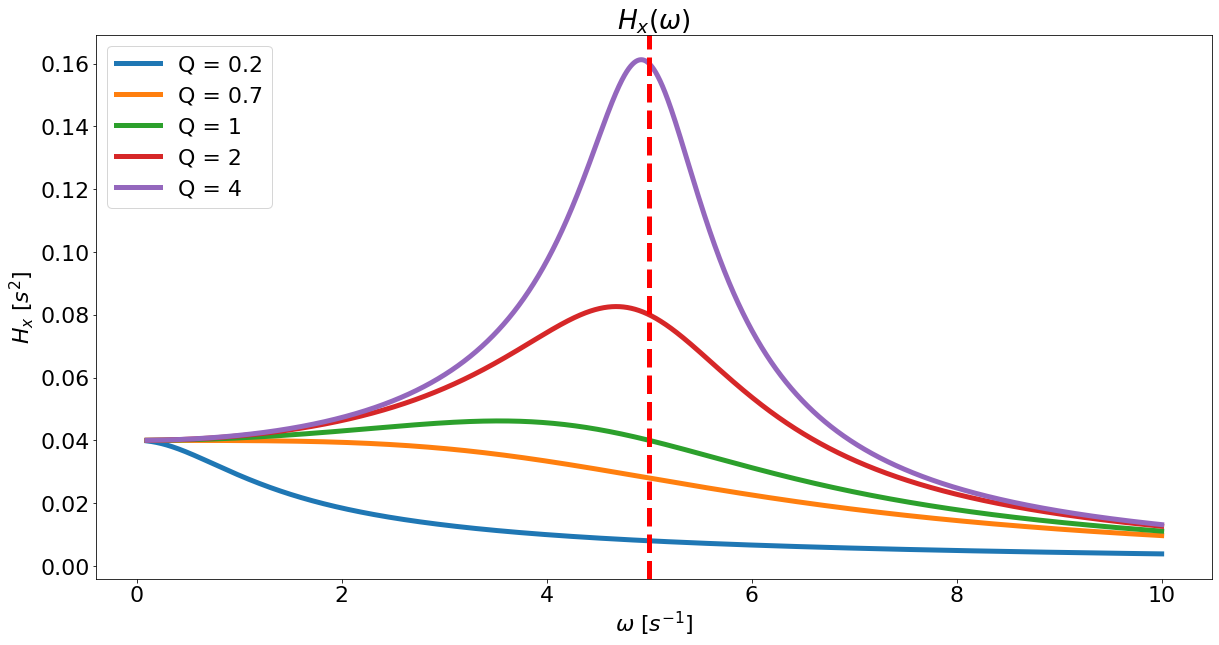
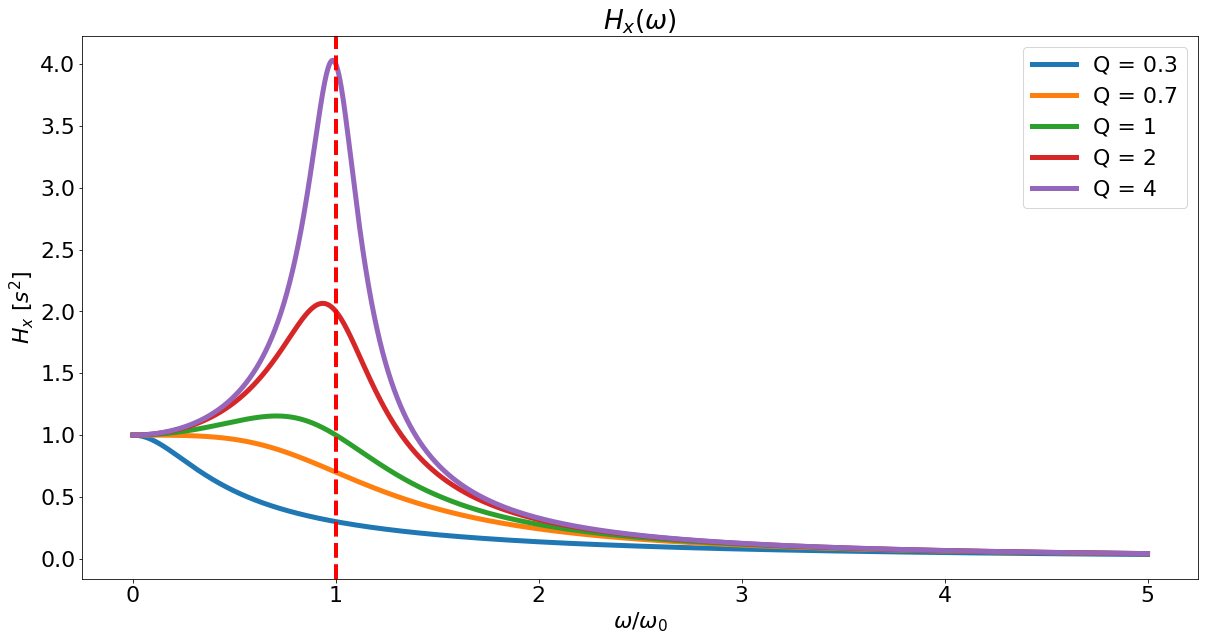
Ajout figure + code gamma
Mise à jour fig + code résonance

diff --git a/LP/24-phenomenes_resonances/resonance.py b/LP/24-phenomenes_resonances/resonance.py
@@ -10,6 +10,8 @@ import matplotlib.pyplot as plt
 from scipy.integrate import odeint
 import matplotlib 
 
+plt.rcParams.update({'font.size': 22})
+
 # norme fonction de transfert position
 def Hv (omega, omega0, Q):
     den = 1 + Q**2 * (omega / omega0 - omega0/omega)**2
@@ -22,18 +24,18 @@ def Hx (omega, omega0, Q):
     return Q / (omega0**2 * np.sqrt (den))
 
 ## paramètre resonance
-Q = [0.2, 0.7, 1, 2, 4]
-omega = np.linspace (0.1, 10, 10000)
-omega0 = 5
+Q = [0.3, 0.7, 1, 2, 4]
+omega0 = 1
+omega = np.linspace (0, 5, 100000)
 
 # tracé de H_x
 plt.figure (figsize = (20, 10))
 for q in Q:
     plt.plot (omega, Hx (omega, omega0, q), linewidth=5)
-plt.axvline(x=omega0, color='red', linestyle='--', linewidth=5)
-plt.xlabel ("$\omega$ [$s^{-1}$]")
+plt.axvline (x=omega0, color='red', linestyle='--', linewidth=4)
+plt.legend (['Q = 0.3', 'Q = 0.7', 'Q = 1', 'Q = 2', 'Q = 4'], loc=1)
+plt.xlabel ("$\omega / \omega_0$")
 plt.ylabel ("$H_x$ [$s^2$]")
-plt.legend(['Q = 0.2', 'Q = 0.7', 'Q = 1', 'Q = 2', 'Q = 4'], loc=2)
 plt.title ("$H_x (\omega)$")
 plt.show ()
 
@@ -41,9 +43,9 @@ plt.show ()
 plt.figure (figsize = (20, 10))
 for q in Q:
     plt.plot (omega, Hv (omega, omega0, q), linewidth=5)
-plt.axvline(x=omega0, color='red', linestyle='--', linewidth=5)
-plt.xlabel ("$\omega$ [$s^{-1}$]")
+plt.axvline (x=omega0, color='red', linestyle='--', linewidth=4)
+plt.legend (['Q = 0.3', 'Q = 0.7', 'Q = 1', 'Q = 2', 'Q = 4'], loc=1)
+plt.xlabel ("$\omega / \omega_0$")
 plt.ylabel ("$H_v$ [$s$]")
-plt.legend(['Q = 0.2', 'Q = 0.7', 'Q = 1', 'Q = 2', 'Q = 4'], loc=2)
 plt.title ("$H_v (\omega)$")
 plt.show ()

diff --git a/LP/26-cinematique_relativiste/gamma.py b/LP/26-cinematique_relativiste/gamma.py
@@ -1,0 +1,31 @@
+# -*- coding: utf-8 -*-
+"""
+  Resonance : trace la norme des fonctions de transfert
+  en position et vitesse pour 5 valeurs de Q
+"""
+
+import matplotlib.animation as animation
+import numpy as np
+import matplotlib.pyplot as plt
+from scipy.integrate import odeint
+import matplotlib 
+
+plt.rcParams.update({'font.size': 22})
+
+# vitesse de la lumière
+c = 299792458
+
+# norme fonction de transfert position
+def gamma (v):
+    beta = v / c
+    return 1 / np.sqrt (1 - beta**2)
+
+# tracé de gamma (v)
+v = np.linspace (0, 0.95*c, 1000)
+plt.figure (figsize = (20, 10))
+plt.plot (v/c, gamma(v), linewidth = 5)
+#plt.hlines (1.5, 0, 1, color='red', linestyle='--', linewidth=3)
+plt.xlabel ("$v / c$")
+plt.ylabel ("$\gamma$")
+plt.title ("$\gamma (v) = 1 / \sqrt{1 - v^2/c^2}$")
+plt.show ()
